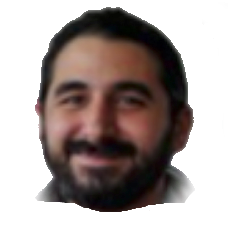
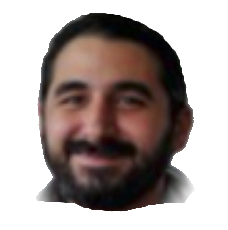
redid png background

diff --git a/src/grasppoints/src/ImageAcquirer.py b/src/grasppoints/src/ImageAcquirer.py
@@ -20,16 +20,17 @@ class ImageAcquirer:
         rospy.init_node('ImageAcquirer', anonymous = True)
         self.use_camera = rospy.get_param('use camera')
         self.img_pub = rospy.Publisher('acquired_image', Image, queue_size =10)
-        self.rate = rospy.Rate(2000) #2000 hz
+        self.rate = rospy.Rate(10000000000000) #200000 hz
         self.bridge = CvBridge()
 
 
         if self.use_camera:
+            self.vid = cv2.VideoCapture(0)
             while not rospy.is_shutdown():
                 self.pull_camera_image()
                 self.rate.sleep()
+            self.vid.release
         else:
-
             while not rospy.is_shutdown():
                 self.pull_static_image()
                 self.rate.sleep()
@@ -41,10 +42,10 @@ class ImageAcquirer:
         rospack = rospkg.RosPack()
         image_path = rospack.get_path('grasppoints') + '/src/'
         try:
-            cv_image = cv2.imread(image_path + 'calli.png')
+            cv_image = cv2.imread(image_path + 'calli.png', 0)
             image_message = self.bridge.cv2_to_imgmsg(cv_image, encoding="passthrough")
             self.img_pub.publish(image_message)
-            rospy.loginfo("Image published")
+            #rospy.loginfo("Image published")
         except IOError:
             rospy.loginfo("Error reading file")
 
@@ -52,6 +53,9 @@ class ImageAcquirer:
         """
         pulls image from webcam and publishes on image topic
         """
+        ret, frame = self.vid.read()
+        cv2.imshow('frame',frame)
+
 
 if __name__ == '__main__':
     node = ImageAcquirer()
